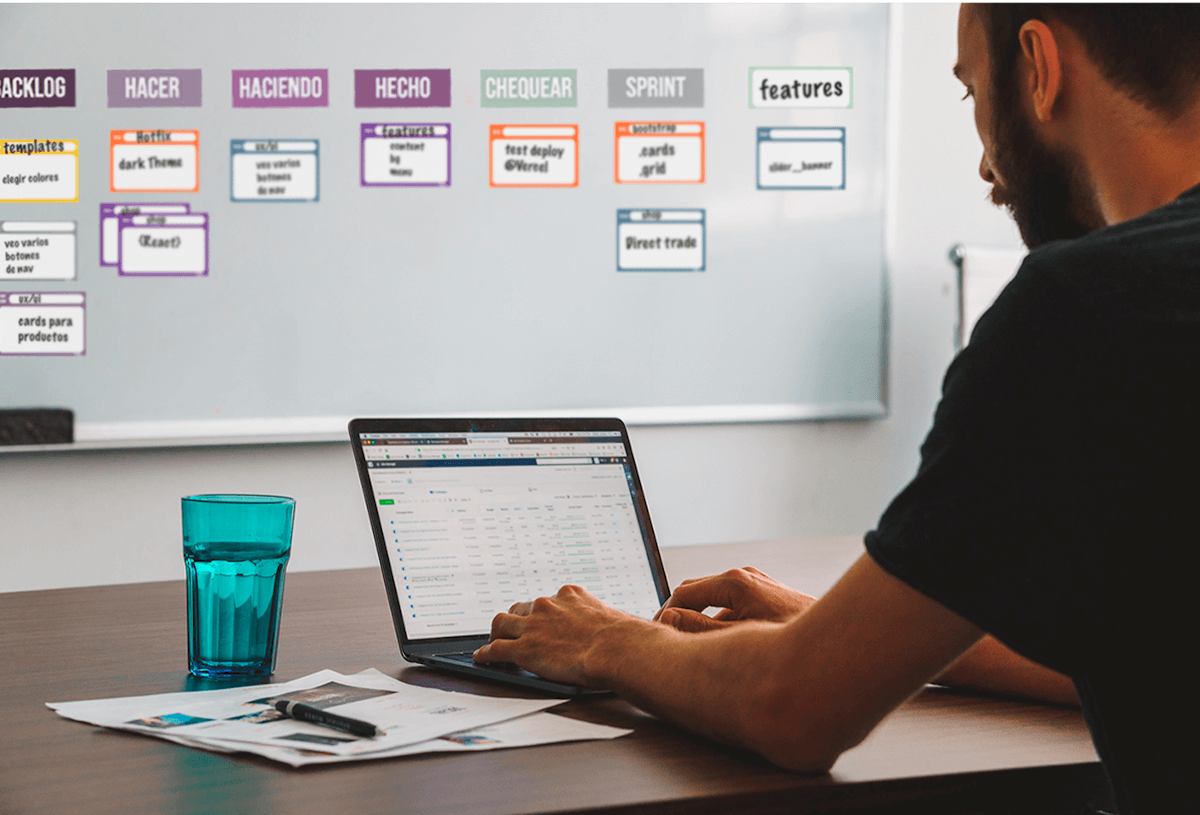
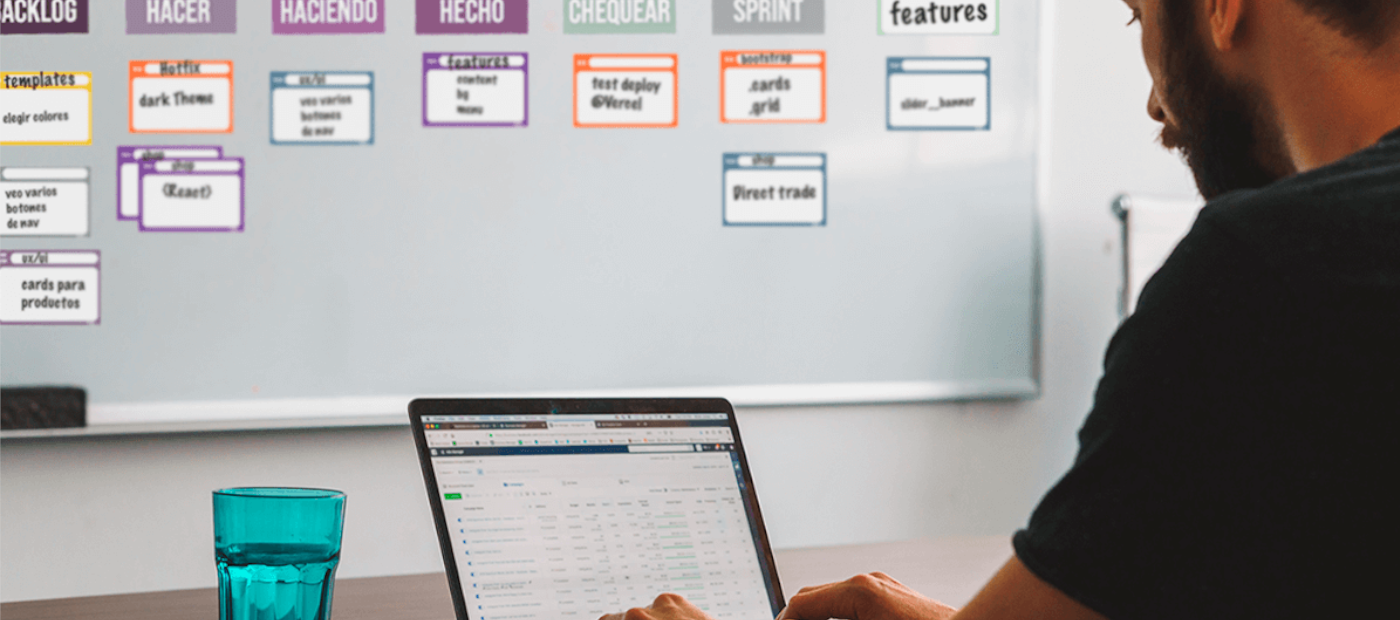
Agregadas img + layout casi definido

diff --git a/index.html b/index.html
@@ -11,36 +11,96 @@
     <title>Plan! Organizadores magnéticos</title>
 </head>
 
-<body>
+<body class="">
     <div class="container-fluid" id="contenedor">
        
-      <header class="row" id="header">
-            <nav class="col-md-6 offset-md-3" id="botonera">
-              <ul>
-                <li><a href=""></a>1</li>
-                <li><a href=""></a>2</li>
-                <li><a href=""></a>3</li>
-              </ul>
-            </nav>
-        </header>
+      <header class="row shadow-lg p-3 bg-body rounded" id="cabecera">
+        <nav class="navbar navbar-expand-md navbar-light w-100 nav-justified">
+            <h1>
+              <a class="navbar-brand" href="index.html"> 
+                  <img src="images/logotransOK.png" width="205" height="50"
+                      class="d-inline-block align-center " alt="Logo de Plan. Organizadores imantados">
+                  </a>
+            </h1>
+                <button class="navbar-toggler" type="button" data-toggle="collapse" data-target="#botonera" aria-controls="botonera" aria-expanded="false" aria-label="Toggle navigation">
+                  <span class="navbar-toggler-icon"></span>
+                </button>
+              
+            <div class="collapse navbar-collapse" id="botonera">
+              <ul class="nav nav-pills w-100 text-uppercase">
+                <li class="nav-item">
+                <a class="nav-link active border border-primary w-75" href="#principal">Inicio</a>
+                </li>
+                <li class="nav-item">
+                <a class="nav-link text-dark w-75" href="#menu">Productos</a>
+                </li>
+                <li class="nav-item">
+                <a class="nav-link text-dark w-75" href="#contacto">Nosotros</a>
+                </li>
+                <li class="nav-item" id="prueba">
+                  <a class="nav-link text-dark w-75"  href="#pie">contacto</a>
+                  </li>
+                </ul>
+            </div>
+        </nav>
+      </header>
 
-        <main class="row ">
-          <div class="jumbotron text-white jumbotron-image shadow mt-4"
-        id="hero"> 
-            <div class="bg-image" style="background-image: src="images/scrum_mini_banner.png"  
-              <h2 class="mb-4"> </div>
-                  Organizadores y planners magnéticos.  
-                </h2> 
-            <p class="mb-4"> 
-                Hey, check this out. 
-            </p> 
-            <a class="btn btn-primary"> 
-                Click! 
-            </a> 
+    <section class="row mt-4" id="principal">
+      <div id="carouselExampleFade" class="col-md-6 carousel slide carousel-fade rounded" data-ride="carousel">
+        <div class="carousel-inner">
+          <div class="carousel-item active">
+            <img src="images/banner0.png" class="d-block w-100" alt="...">
           </div>
-       
-      
-      </main>
+          <div class="carousel-item">
+            <img src="images/scrum_mini_banner.png" class="d-block w-100" alt="...">
+          </div>
+          <div class="carousel-item">
+            <img src="images/1bramas_light.png" class="d-block w-100" alt="...">
+          </div>
+          <div class="carousel-item">
+            <img src="images/banner2.png" class="d-block w-100" alt="...">
+          </div>
+          <div class="carousel-item">
+            <img src="images/banner3.png" class="d-block w-100" alt="...">
+          </div>
+        </div>
+        <a class="carousel-control-prev" href="#carouselExampleFade" role="button" data-slide="prev">
+          <span class="carousel-control-prev-icon" aria-hidden="true"></span>
+          <span class="sr-only">Previous</span>
+        </a>
+        <a class="carousel-control-next" href="#carouselExampleFade" role="button" data-slide="next">
+          <span class="carousel-control-next-icon" aria-hidden="true"></span>
+          <span class="sr-only">Next</span>
+        </a>
+      </div>
+
+
+            <div class="col-md-6 text-uppercase">
+              <h1 class="display-4 fw-bold text-dark">Organizadores <br> y Planners <br>
+              Magnéticos       
+              
+              </h1>
+              <p class="lead">Organizá tu día, organizá tu PLAN!</p>
+              <hr class="my-4">
+              <p>It uses utility classes for typography and spacing to space content out within the larger container.</p>
+              <a class="btn btn-primary btn-lg" href="#" role="button">sHOP ONLINE</a>
+            </div>
+      </section>
+        <!-- ********************opcion jumbotron
+          
+          
+          <main class="row justify-content-center">
+          <div class=" jumbotron text-uppercase ">
+            <h1 class="display-4 fw-bold text-dark">Organizadores <br> y Planners <br>
+            Magnéticos       
+            
+            </h1>
+            <p class="lead">Organizá tu día, organizá tu PLAN!</p>
+            <hr class="my-4">
+            <p>It uses utility classes for typography and spacing to space content out within the larger container.</p>
+            <a class="btn btn-primary btn-lg" href="#" role="button">sHOP ONLINE</a>
+          </div>
+      </main> -->
 
         <div class="row justify-content-center mb-4 ">
           <div class="col-sm-10 col-md-10 shadow" id="slider_banner"></div>
@@ -54,119 +114,147 @@
 
     -->
     
-    <section class="row align-items-center justify-content-around" id="productos">
+    <section class="row align-items-center justify-content-around " id="productos">
         
-          <div class="card " style="width: 18rem;">
-            <img src="..." class="card-img-top" alt="...">
+      <div class="row row-cols-1 row-cols-md-4">
+        <div class="col mb-4">
+          <div class="card">
+            <img src="images/floresmex.png" class="card-img-top" alt="...">
             <div class="card-body">
-              <h5 class="card-title">Card title</h5>
-              <h6 class="card-subtitle mb-2 text-muted">Card subtitle</h6>
-
-              <p class="card-text">Some quick example text to build on the card title and make up the bulk of the card's content.</p>
-              <a href="#" class="btn btn-secondary">Go somewhere</a>
+              <h5 class="card-title">Scrum mini</h5>
+              <p class="card-text">This is a longer card with supporting text below as a natural lead-in to additional content. This content is a little bit longer.</p>
+              <button type="button" class="btn btn-secondary" data-toggle="tooltip" data-placement="right" title="Tooltip on right">
+                Tooltip on right
+              </button>
             </div>
           </div>
-          <div class="card" style="width: 18rem;">
+        </div>
+        <div class="col mb-4">
+          <div class="card">
             <img src="..." class="card-img-top" alt="...">
             <div class="card-body">
               <h5 class="card-title">Card title</h5>
-              <h6 class="card-subtitle mb-2 text-muted">Card subtitle</h6>
-
-              <p class="card-text">Some quick example text to build on the card title and make up the bulk of the card's content.</p>
-              <a href="#" class="btn btn-primary">Go somewhere</a>
+              <p class="card-text">This is a longer card with supporting text below as a natural lead-in to additional content. This content is a little bit longer.</p>
             </div>
           </div>
-          <div class="card" style="width: 18rem;">
+        </div>
+        <div class="col mb-4">
+          <div class="card">
             <img src="..." class="card-img-top" alt="...">
             <div class="card-body">
               <h5 class="card-title">Card title</h5>
-              <h6 class="card-subtitle mb-2 text-muted">Card subtitle</h6>
-
-              <p class="card-text">Some quick example text to build on the card title and make up the bulk of the card's content.</p>
-              <a href="#" class="btn btn-primary">Go somewhere</a>
+              <p class="card-text">This is a longer card with supporting text below as a natural lead-in to additional content.</p>
             </div>
-          </div>  
-          <div class="card" style="width: 18rem;">
+          </div>
+        </div>
+        <div class="col mb-4">
+          <div class="card">
             <img src="..." class="card-img-top" alt="...">
             <div class="card-body">
               <h5 class="card-title">Card title</h5>
-              <h6 class="card-subtitle mb-2 text-muted">Card subtitle</h6>
-
-              <p class="card-text">Some quick example text to build on the card title and make up the bulk of the card's content.</p>
-              <a href="#" class="btn btn-primary">Go somewhere</a>
+              <p class="card-text">This is a longer card with supporting text below as a natural lead-in to additional content. This content is a little bit longer.</p>
             </div>
-          </div>  
-          <div class="card" style="width: 18rem;">
+          </div>
+        </div>
+        <div class="col mb-4">
+          <div class="card">
             <img src="..." class="card-img-top" alt="...">
             <div class="card-body">
               <h5 class="card-title">Card title</h5>
-              <h6 class="card-subtitle mb-2 text-muted">Card subtitle</h6>
-
-              <p class="card-text">Some quick example text to build on the card title and make up the bulk of the card's content.</p>
-              <a href="#" class="btn btn-primary">Go somewhere</a>
+              <p class="card-text">This is a longer card with supporting text below as a natural lead-in to additional content. This content is a little bit longer.</p>
             </div>
-          </div>  
-          <div class="card" style="width: 18rem;">
+          </div>
+        </div>
+        <div class="col mb-4">
+          <div class="card">
             <img src="..." class="card-img-top" alt="...">
             <div class="card-body">
               <h5 class="card-title">Card title</h5>
-              <h6 class="card-subtitle mb-2 text-muted">Card subtitle</h6>
-
-              <p class="card-text">Some quick example text to build on the card title and make up the bulk of the card's content.</p>
-              <a href="#" class="btn btn-primary">Go somewhere</a>
+              <p class="card-text">This is a longer card with supporting text below as a natural lead-in to additional content. This content is a little bit longer.</p>
             </div>
-          </div>  
-          <div class="card" style="width: 18rem;">
+          </div>
+        </div>
+        <div class="col mb-4">
+          <div class="card">
             <img src="..." class="card-img-top" alt="...">
             <div class="card-body">
               <h5 class="card-title">Card title</h5>
-              <h6 class="card-subtitle mb-2 text-muted">Card subtitle</h6>
-
-              <p class="card-text">Some quick example text to build on the card title and make up the bulk of the card's content.</p>
-              <a href="#" class="btn btn-primary">Go somewhere</a>
+              <p class="card-text">This is a longer card with supporting text below as a natural lead-in to additional content. This content is a little bit longer.</p>
             </div>
-          </div>  
-          <div class="card" style="width: 18rem;">
+          </div>
+        </div>
+        <div class="col mb-4">
+          <div class="card p-3 mb-5 bg-white rounded">
             <img src="..." class="card-img-top" alt="...">
             <div class="card-body">
               <h5 class="card-title">Card title</h5>
-              <h6 class="card-subtitle mb-2 text-muted">Card subtitle</h6>
-
-              <p class="card-text">Some quick example text to build on the card title and make up the bulk of the card's content.</p>
-              <a href="#" class="btn btn-primary">Go somewhere</a>
+              <p class="card-text">This is a longer card with supporting text below as a natural lead-in to additional content. This content is a little bit longer.</p>
             </div>
-          </div>  
-          <div class="card" style="width: 18rem;">
-            <img src="..." class="card-img-top" alt="...">
-            <div class="card-body">
-              <h5 class="card-title">Card title</h5>
-              <h6 class="card-subtitle mb-2 text-muted">Card subtitle</h6>
-
-              <p class="card-text">Some quick example text to build on the card title and make up the bulk of the card's content.</p>
-              <a href="#" class="btn btn-primary">Go somewhere</a>
-            </div>
-          </div>  
-          <div class="card" style="width: 18rem;">
-            <img src="..." class="card-img-top" alt="...">
-            <div class="card-body">
-              <h5 class="card-title">Card title</h5>
-              <h6 class="card-subtitle mb-2 text-muted">Card subtitle</h6>
-
-              <p class="card-text">Some quick example text to build on the card title and make up the bulk of the card's content.</p>
-              <a href="#" class="btn btn-primary">Go somewhere</a>
-            </div>
-          </div>  
+          </div>
+        </div>
+      </div>
     </section>
     
 
     
 
+    
 
 
 
+   <footer class="row shadow-lg p-3 mb-5 bg-body rounded" id="pie">
+            <div class="col-md-4"id="pie_1"> 
+                <div class="h5"><strong>¿Querés recibir todas nuestras novedades? (trancu, no nos gusta el Spam)</strong></div>
+                    <form class="form" role="form">
+                      <div class="form-group">
+                        <label class="sr-only" for="ejemplo_email_2">Email</label>
+                        <input type="email" class="form-control" id="ejemplo_email_2"
+                               placeholder="Introduce tu email">
+                      </div>
+                      <div class="form-group">
+                        <label class="sr-only" for="ejemplo_password_2">Contraseña</label>
+                        <input type="password" class="form-control" id="ejemplo_password_2" 
+                               placeholder="Contraseña">
+                      </div>
+                        
+                        <button type="submit" class="btn btn-info mb-3">Vamos!</button>
+                      
+                      
+                    </form>
+            </div>        
+            <div class="col-md-8" id="pie_2">
+
+              <div class="card" style="width: 25rem;">
+                <img src="images/logotransOK.png" width="70" class="card-img-right" alt="...">
+                <div class="card-body">
+                  <h5 class="card-title text-center">Contacto</h5>
+                  <p class="card-text"></p>
+                </div>
+              <div class="card text-center">
+                <div class="card-body">
+                 <ul class="list-group list-group-flush">
+                <li class="list-group-item"><i class="fa fa-map-marker" aria-hidden="true" ></i> Arévalo 1488. CABA.</li>
+                <li class="list-group-item"><i class="fa fa-whatsapp" aria-hidden="true" ></i> +54 9 11 2388-2339</li>
+                <li class="list-group-item"><i class="fa fa-instagram" aria-hidden="true" ></i> <a href="https://www.instagram.com/rockinmusicbar/" target="_blank" rel="noreferrer">@rockinmusicbar</a></li>
+                <li class="list-group-item"><i class="fa fa-facebook-official" aria-hidden="true" ></i> <a href="https://www.facebook.com/rockinmusicbar/" target="_blank" rel="noreferrer">@rockinmusicbar</a></li>
+                <li class="list-group-item"><i class="fa fa-envelope-o" aria-hidden="true" ></i> <a href="mailto:rockinmusicbar@gmail.com">rockinmusicbar@gmail.com</a></li>
+                
+              </ul>
+                  
+                </div>
+                <div class="card-footer text-muted">
+                  &copy;2021 PLAN! - 
+                  <class="text-center">Desarrollado con <i class="fa fa-heart" aria-hidden="true" ></i> por <a href="#"> Sebastián Simarro </a>
+                </div>
+              </div>
+            </div>
+        </footer> 
     </div>
-    <script src="https://code.jquery.com/jquery-3.5.1.slim.min.js" integrity="sha384-DfXdz2htPH0lsSSs5nCTpuj/zy4C+OGpamoFVy38MVBnE+IbbVYUew+OrCXaRkfj" crossorigin="anonymous"></script>
-<script src="https://cdn.jsdelivr.net/npm/bootstrap@4.6.0/dist/js/bootstrap.bundle.min.js" integrity="sha384-Piv4xVNRyMGpqkS2by6br4gNJ7DXjqk09RmUpJ8jgGtD7zP9yug3goQfGII0yAns" crossorigin="anonymous"></script>
-</body>
 
+
+<script src="https://code.jquery.com/jquery-3.5.1.slim.min.js" integrity="sha384-DfXdz2htPH0lsSSs5nCTpuj/zy4C+OGpamoFVy38MVBnE+IbbVYUew+OrCXaRkfj" crossorigin="anonymous"></script>
+<script src="https://cdn.jsdelivr.net/npm/bootstrap@4.6.0/dist/js/bootstrap.bundle.min.js" integrity="sha384-Piv4xVNRyMGpqkS2by6br4gNJ7DXjqk09RmUpJ8jgGtD7zP9yug3goQfGII0yAns" crossorigin="anonymous"></script>
+<script src="https://use.fontawesome.com/e6caaf1365.js"></script>
+
+</body>
 </html>

diff --git a/css/estilos.css b/css/estilos.css
@@ -33,35 +33,14 @@
 html {
   scroll-behavior: smooth;
 }
-#contenedor {
-  background-color: var(--txt_white);
-}
 
-header {
-  background-color: var(--secondary);
-}
-
-#logo {
-  background-color: var(--shade_20);
-}
-
-#botonera {
-  background-color: var(--shade_40);
-}
-
-.bg-image {
+/* .jumbotron {
+  background-image: url("../images/ramlight.png");
+  background-size: cover;
   background-position: center center;
   background-repeat: no-repeat;
-  background-size: cover;
 }
-
-#titulo {
-  font-size: 4rem;
-  color: var(--txt_white);
-}
-
 #slider_banner {
   background-color: var(--bs-yellow);
 }
-#productos {
-}
+ */
